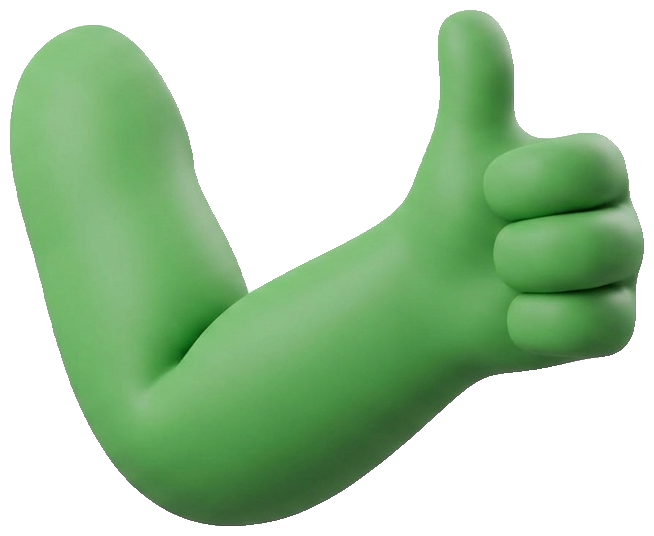
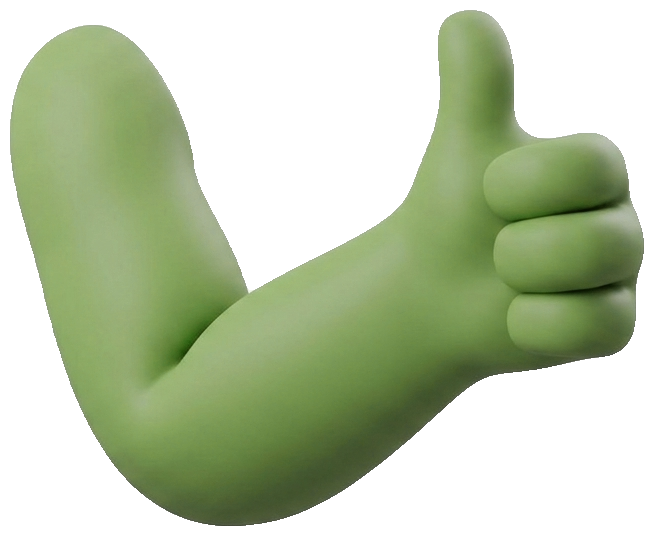
mascota: color igualado en expresiones, ojos_normal generado, scripts igualar y ojos

diff --git a/mascota/scripts/py.js b/mascota/scripts/py.js
@@ -1,10 +1,10 @@
-// Lanza mascota/scripts/recortar.py dentro del venv de mascota/.venv.
-//   npm run mascota:recortar
-//   npm run mascota:recortar -- --solo cabeza --matting
+// Lanza un script de mascota/scripts/ dentro del venv de mascota/.venv.
+//   node mascota/scripts/py.js recortar.py --solo cabeza
+//   (es lo que hacen npm run mascota:recortar, mascota:igualar y mascota:ojos)
 //
-// La primera vez crea el venv e instala rembg[cpu] + onnxruntime; las
-// siguientes solo corre el script. Sin Python en la máquina, lo dice y
-// para. "Activar el venv" es esto: llamar a su intérprete, que en
+// La primera vez crea el venv e instala rembg[cpu] + onnxruntime + numpy;
+// las siguientes solo corre el script. Sin Python en la máquina, lo dice
+// y para. "Activar el venv" es esto: llamar a su intérprete, que en
 // Windows vive en Scripts/ y en el resto en bin/.
 const { spawnSync } = require("child_process");
 const { existsSync } = require("fs");
@@ -13,8 +13,14 @@ const path = require("path");
 const MASCOTA = path.join(__dirname, "..");
 const VENV = path.join(MASCOTA, ".venv");
 const PYTHON_VENV = path.join(VENV, process.platform === "win32" ? "Scripts" : "bin", process.platform === "win32" ? "python.exe" : "python");
-const SCRIPT = path.join(__dirname, "recortar.py");
-const PAQUETES = ["rembg[cpu]", "onnxruntime", "pillow"];
+const PAQUETES = ["rembg[cpu]", "onnxruntime", "pillow", "numpy"];
+
+const [nombre, ...resto] = process.argv.slice(2);
+if (!nombre || !existsSync(path.join(__dirname, nombre))) {
+  console.error(`Uso: node mascota/scripts/py.js <script.py> [argumentos]. No existe mascota/scripts/${nombre ?? ""}`);
+  process.exit(1);
+}
+const SCRIPT = path.join(__dirname, nombre);
 
 // PYTHONUTF8: la consola de Windows arranca en cp1252 y el script imprime «✓».
 const correr = (cmd, args, opciones = {}) =>
@@ -46,4 +52,4 @@ if (!existsSync(PYTHON_VENV)) {
   if (correr(PYTHON_VENV, ["-m", "pip", "install", "--quiet", ...PAQUETES]).status !== 0) process.exit(1);
 }
 
-process.exit(correr(PYTHON_VENV, [SCRIPT, ...process.argv.slice(2)]).status ?? 1);
+process.exit(correr(PYTHON_VENV, [SCRIPT, ...resto]).status ?? 1);

diff --git a/mascota/scripts/ojos_maestro.py b/mascota/scripts/ojos_maestro.py
@@ -1,0 +1,163 @@
+"""
+Saca los ojos del render maestro de la mascota.
+
+    npm run mascota:ojos -- --vista                 → solo la vista previa
+    npm run mascota:ojos                            → escribe piezas/ojos_maestro.png
+    npm run mascota:ojos -- --caja 418 90 614 178   → otra caja (x0 y0 x1 y1, en píxeles del maestro)
+    npm run mascota:ojos -- --desvanecer 0          → corte a hueso, sin fundir el borde
+
+El maestro tiene los ojos de referencia, con sus párpados verdes. Se
+recorta esa región —sin la nariz ni la boca—, se le quita el fondo con
+rembg, se hace trim con AIRE píxeles y se guarda como
+piezas/ojos_maestro.png; si ya existía, el anterior queda como
+ojos_maestro.orig.png (solo la primera vez).
+
+NO SUSTITUYE A piezas/ojos_normal.png: esa pieza sale de su propio JPG
+generado, a resolución completa (872 px de ancho contra los ~200 del
+recorte del maestro, que es de 1024 px en total). El recorte del maestro
+es la referencia para comparar y, si hiciera falta, el respaldo.
+
+EL FONDO SE QUITA SOBRE EL MAESTRO ENTERO, no sobre el recorte: rembg
+sabe separar un personaje de un fondo blanco, pero un rectángulo de piel
+con dos ojos no es algo que reconozca, y se llevaría la piel. Con el
+personaje ya aislado, el recorte solo tiene ojos, párpados y la piel de
+en medio; las esquinas que quedaban fuera de la cabeza salen
+transparentes solas.
+
+La vista previa (rive/ojos_vista.png) enseña la caja dibujada sobre el
+maestro y el recorte ampliado, para ajustar los márgenes antes de
+escribir.
+"""
+
+from __future__ import annotations
+
+import argparse
+import sys
+from pathlib import Path
+
+import numpy as np
+from PIL import Image, ImageDraw
+from rembg import new_session, remove
+
+from recortar import AIRE, UMBRAL_ALFA
+
+RIVE = Path(__file__).resolve().parents[1] / "rive"
+MAESTRO = RIVE / "maestro.png"
+DESTINO = RIVE / "piezas" / "ojos_maestro.png"
+VISTA = RIVE / "ojos_vista.png"
+
+# Los dos ojos con sus párpados, sin las fosas nasales (empiezan en y≈182),
+# la boca ni las orejas (la derecha asoma desde x≈606). Medida sobre el
+# maestro de 1024×559.
+CAJA_POR_DEFECTO = (420, 90, 604, 178)
+
+# EL BORDE SE DESVANECE. La pieza es un rectángulo de piel del maestro
+# que va a ir encima de la cabeza de `cabeza.png`, que es otro render y
+# otro verde: con el corte a hueso se vería el parche. Con el alfa
+# cayendo a cero en los últimos píxeles del rectángulo, la piel del
+# recorte se funde con la de debajo y solo quedan los ojos. Se aplica
+# antes del trim, y no toca lo que ya era transparente.
+DESVANECIDO_POR_DEFECTO = 12
+
+
+def sin_fondo(maestro: Image.Image) -> Image.Image:
+    salida = remove(maestro.convert("RGBA"), session=new_session("u2net"), post_process_mask=True)
+    if not isinstance(salida, Image.Image):
+        raise TypeError("rembg devolvió algo que no es una imagen")
+    return salida
+
+
+def desvanecer_bordes(region: Image.Image, ancho: int) -> Image.Image:
+    """El alfa cae linealmente a cero en los `ancho` píxeles del borde del rectángulo."""
+    if ancho <= 0:
+        return region
+    alto, largo = region.height, region.width
+    y = np.arange(alto)[:, None]
+    x = np.arange(largo)[None, :]
+    # Distancia al borde más cercano, en píxeles, y de ahí un factor 0–1.
+    distancia = np.minimum(np.minimum(x + 1, largo - x), np.minimum(y + 1, alto - y))
+    factor = np.clip(distancia / (ancho + 1), 0.0, 1.0)
+    alfa = np.asarray(region.getchannel("A"), dtype=np.float64) * factor
+    salida = region.copy()
+    salida.putalpha(Image.fromarray(np.rint(alfa).astype(np.uint8), "L"))
+    return salida
+
+
+def recortar_ojos(
+    personaje: Image.Image, caja: tuple[int, int, int, int], desvanecido: int
+) -> Image.Image:
+    region = desvanecer_bordes(personaje.crop(caja), desvanecido)
+    alfa = region.getchannel("A").point(lambda a: 255 if a > UMBRAL_ALFA else 0)
+    limites = alfa.getbbox()
+    if limites is None:
+        raise ValueError("la caja no contiene nada opaco")
+    pieza = region.crop(limites)
+    lienzo = Image.new("RGBA", (pieza.width + 2 * AIRE, pieza.height + 2 * AIRE), (0, 0, 0, 0))
+    lienzo.paste(pieza, (AIRE, AIRE))
+    return lienzo
+
+
+def vista_previa(maestro: Image.Image, caja: tuple[int, int, int, int], pieza: Image.Image) -> None:
+    """El maestro con la caja marcada, y debajo el recorte a 3×."""
+    marcado = maestro.convert("RGBA")
+    dibujo = ImageDraw.Draw(marcado)
+    dibujo.rectangle(caja, outline=(224, 71, 63, 255), width=3)
+
+    escala = 3
+    ampliada = pieza.resize((pieza.width * escala, pieza.height * escala), Image.Resampling.LANCZOS)
+
+    # Fondo a cuadros bajo el recorte, para ver el alfa.
+    cuadro = 12
+    fondo = Image.new("RGBA", ampliada.size, (235, 235, 235, 255))
+    lapiz = ImageDraw.Draw(fondo)
+    for y in range(0, fondo.height, cuadro):
+        for x in range(0, fondo.width, cuadro):
+            if (x // cuadro + y // cuadro) % 2 == 0:
+                lapiz.rectangle((x, y, x + cuadro - 1, y + cuadro - 1), fill=(205, 205, 205, 255))
+    fondo.alpha_composite(ampliada)
+
+    hoja = Image.new("RGBA", (max(marcado.width, fondo.width), marcado.height + fondo.height + 20), (255, 255, 255, 255))
+    hoja.paste(marcado, (0, 0))
+    hoja.paste(fondo, (0, marcado.height + 20))
+    hoja.save(VISTA, "PNG")
+
+
+def main() -> int:
+    for flujo in (sys.stdout, sys.stderr):
+        if hasattr(flujo, "reconfigure"):
+            flujo.reconfigure(encoding="utf-8", errors="replace")
+
+    parser = argparse.ArgumentParser(description=__doc__, formatter_class=argparse.RawDescriptionHelpFormatter)
+    parser.add_argument("--caja", nargs=4, type=int, metavar=("X0", "Y0", "X1", "Y1"), default=CAJA_POR_DEFECTO)
+    parser.add_argument("--desvanecer", type=int, default=DESVANECIDO_POR_DEFECTO, metavar="PX", help="ancho del borde que se funde; 0 para corte a hueso")
+    parser.add_argument("--vista", action="store_true", help="solo la vista previa, sin escribir la pieza")
+    args = parser.parse_args()
+    caja = (args.caja[0], args.caja[1], args.caja[2], args.caja[3])
+
+    if not MAESTRO.exists():
+        print(f"✗ falta {MAESTRO.relative_to(RIVE.parent)}")
+        return 1
+
+    with Image.open(MAESTRO) as im:
+        maestro = im.convert("RGBA")
+
+    personaje = sin_fondo(maestro)
+    pieza = recortar_ojos(personaje, caja, args.desvanecer)
+    vista_previa(maestro, caja, pieza)
+    print(f"caja {caja} · desvanecido {args.desvanecer}px → pieza de {pieza.width}×{pieza.height} (con {AIRE}px de aire)")
+    print(f"vista previa en {VISTA.relative_to(RIVE.parent)}")
+
+    if args.vista:
+        return 0
+
+    original = DESTINO.with_suffix(".orig.png")
+    if DESTINO.exists() and not original.exists():
+        DESTINO.rename(original)
+        print(f"anterior guardado como {original.name}")
+    pieza.save(DESTINO, "PNG")
+    print(f"✓ escrito {DESTINO.relative_to(RIVE.parent)}")
+    return 0
+
+
+if __name__ == "__main__":
+    sys.exit(main())

diff --git a/mascota/scripts/igualar_color.py b/mascota/scripts/igualar_color.py
@@ -1,0 +1,150 @@
+"""
+Iguala el verde de las expresiones al de la pieza base que sustituyen.
+
+    npm run mascota:igualar
+    npm run mascota:igualar -- --ensayo      (mide y cuenta, no escribe)
+
+Cada expresión se generó por separado y su verde no es exactamente el de
+la pieza a la que reemplaza: al cambiar de boca en Rive, el color salta.
+Para cada par (referencia → objetivo) se toman SOLO los píxeles verdes
+de las dos —matiz entre 60° y 160°, alfa > 200— y se desplazan el
+matiz, la saturación y el valor del objetivo para que su mediana coincida
+con la de la referencia. Lo que no es verde —la lengua, el diploma, la
+cinta, el blanco del ojo— no se toca, ni tampoco el alfa.
+
+El original se guarda al lado como nombre.orig.png antes de
+sobrescribir, y si ya existe se parte de él: correr esto dos veces da lo
+mismo que correrlo una.
+"""
+
+from __future__ import annotations
+
+import argparse
+import sys
+from pathlib import Path
+
+import numpy as np
+from PIL import Image
+
+RIVE = Path(__file__).resolve().parents[1] / "rive"
+
+# referencia → objetivos, relativos a rive/
+PARES: dict[str, list[str]] = {
+    "piezas/boca_sonrisa.png": [
+        "expresiones/boca_abierta.png",
+        "expresiones/boca_o.png",
+        "expresiones/boca_triste.png",
+    ],
+    "piezas/brazo_der.png": [
+        "expresiones/brazo_pulgar.png",
+        "expresiones/brazo_diploma.png",
+    ],
+}
+
+# Pillow codifica el matiz en 0–255 (255 = 360°).
+MATIZ_MIN = round(60 / 360 * 255)
+MATIZ_MAX = round(160 / 360 * 255)
+ALFA_MIN = 200
+
+
+def hsv_y_alfa(imagen: Image.Image) -> tuple[np.ndarray, np.ndarray]:
+    """El HSV (uint8, alto×ancho×3) y el alfa (uint8) de una imagen."""
+    rgba = imagen.convert("RGBA")
+    hsv = np.asarray(rgba.convert("RGB").convert("HSV"), dtype=np.uint8)
+    alfa = np.asarray(rgba.getchannel("A"), dtype=np.uint8)
+    return hsv, alfa
+
+
+def mascara_verde(hsv: np.ndarray, alfa: np.ndarray) -> np.ndarray:
+    matiz = hsv[..., 0]
+    return (matiz >= MATIZ_MIN) & (matiz <= MATIZ_MAX) & (alfa > ALFA_MIN)
+
+
+def medianas(hsv: np.ndarray, mascara: np.ndarray) -> np.ndarray:
+    """Mediana de H, S y V sobre la máscara, como float."""
+    return np.median(hsv[mascara].astype(np.float64), axis=0)
+
+
+def igualar(referencia: Image.Image, objetivo: Image.Image) -> tuple[Image.Image, np.ndarray, np.ndarray, int]:
+    """El objetivo con su verde desplazado al de la referencia."""
+    hsv_ref, alfa_ref = hsv_y_alfa(referencia)
+    hsv_obj, alfa_obj = hsv_y_alfa(objetivo)
+
+    verde_ref = mascara_verde(hsv_ref, alfa_ref)
+    verde_obj = mascara_verde(hsv_obj, alfa_obj)
+    if verde_ref.sum() == 0 or verde_obj.sum() == 0:
+        raise ValueError("una de las dos imágenes no tiene píxeles verdes que medir")
+
+    med_ref = medianas(hsv_ref, verde_ref)
+    med_obj = medianas(hsv_obj, verde_obj)
+    desplazamiento = med_ref - med_obj
+
+    ajustado = hsv_obj.astype(np.float64)
+    # El matiz es circular: se suma y se envuelve. Saturación y valor se
+    # suman y se recortan al rango.
+    ajustado[verde_obj, 0] = np.mod(ajustado[verde_obj, 0] + desplazamiento[0], 256)
+    ajustado[verde_obj, 1] = np.clip(ajustado[verde_obj, 1] + desplazamiento[1], 0, 255)
+    ajustado[verde_obj, 2] = np.clip(ajustado[verde_obj, 2] + desplazamiento[2], 0, 255)
+
+    rgb = Image.fromarray(np.rint(ajustado).astype(np.uint8), "HSV").convert("RGB")
+    salida = rgb.convert("RGBA")
+    salida.putalpha(Image.fromarray(alfa_obj, "L"))
+    return salida, med_ref, med_obj, int(verde_obj.sum())
+
+
+def en_grados(mediana: np.ndarray) -> str:
+    h, s, v = mediana
+    return f"H {h / 255 * 360:5.1f}°  S {s / 255 * 100:4.1f}%  V {v / 255 * 100:4.1f}%"
+
+
+def main() -> int:
+    for flujo in (sys.stdout, sys.stderr):
+        if hasattr(flujo, "reconfigure"):
+            flujo.reconfigure(encoding="utf-8", errors="replace")
+
+    parser = argparse.ArgumentParser(description=__doc__, formatter_class=argparse.RawDescriptionHelpFormatter)
+    parser.add_argument("--ensayo", action="store_true", help="medir y contar sin escribir nada")
+    args = parser.parse_args()
+
+    if args.ensayo:
+        print("ENSAYO: no se escribe nada.\n")
+
+    for ref_rel, objetivos in PARES.items():
+        ruta_ref = RIVE / ref_rel
+        if not ruta_ref.exists():
+            print(f"✗ falta la referencia {ref_rel}")
+            return 1
+        with Image.open(ruta_ref) as im:
+            referencia = im.convert("RGBA")
+
+        print(f"{ref_rel}")
+        for obj_rel in objetivos:
+            ruta = RIVE / obj_rel
+            original = ruta.with_suffix(".orig.png")
+            if not ruta.exists():
+                print(f"  ✗ falta {obj_rel}")
+                continue
+
+            # Se parte siempre del original: así la segunda corrida no
+            # desplaza lo ya desplazado.
+            fuente = original if original.exists() else ruta
+            with Image.open(fuente) as im:
+                objetivo = im.convert("RGBA")
+
+            ajustado, med_ref, med_obj, n = igualar(referencia, objetivo)
+            print(f"  → {obj_rel}  ({n} px verdes)")
+            print(f"      referencia  {en_grados(med_ref)}")
+            print(f"      objetivo    {en_grados(med_obj)}")
+
+            if args.ensayo:
+                continue
+            if not original.exists():
+                objetivo.save(original, "PNG")
+            ajustado.save(ruta, "PNG")
+            print(f"      ✓ escrito (original en {original.name})")
+
+    return 0
+
+
+if __name__ == "__main__":
+    sys.exit(main())

diff --git a/mascota/scripts/recortar.py b/mascota/scripts/recortar.py
@@ -4,6 +4,7 @@ Quita el fondo de las piezas de la mascota y las deja listas para Rive.
     npm run mascota:recortar            → todas las carpetas
     npm run mascota:recortar -- --solo cabeza brazo_izq
     npm run mascota:recortar -- --matting   (bordes más finos, más lento)
+    npm run mascota:recortar -- --solo-contacto   (solo rehacer contacto.png)
 
 Para cada JPG de rive/piezas/ y rive/expresiones/ guarda un PNG con canal
 alfa, mismo nombre y misma carpeta: quita el fondo con rembg (modelo
@@ -12,7 +13,7 @@ alrededor. Los JPG no se tocan. Al final rehace rive/contacto.png: todos
 los PNG sobre un fondo a cuadros, con su nombre debajo.
 
 Corre dentro del venv de mascota/.venv; lo crea y lo llena el lanzador
-(mascota/scripts/recortar.js), que es lo que llama el script npm.
+(mascota/scripts/py.js), que es lo que llama el script npm.
 """
 
 from __future__ import annotations
@@ -136,7 +137,14 @@ def main() -> int:
     parser.add_argument("--solo", nargs="*", default=None, help="nombres (sin extensión) a recortar; por defecto, todos")
     parser.add_argument("--matting", action="store_true", help="alpha matting: bordes más finos, más lento")
     parser.add_argument("--sin-contacto", action="store_true", help="no rehacer contacto.png")
+    parser.add_argument("--solo-contacto", action="store_true", help="solo rehacer contacto.png con los PNG que ya hay")
     args = parser.parse_args()
+
+    if args.solo_contacto:
+        pngs = [png for carpeta in CARPETAS for png in sorted((RIVE / carpeta).glob("*.png")) if not png.name.endswith(".orig.png")]
+        hoja_de_contacto(pngs, RIVE / "contacto.png")
+        print(f"contacto.png con {len(pngs)} piezas")
+        return 0
 
     jpgs = [jpg for carpeta in CARPETAS for jpg in sorted((RIVE / carpeta).glob("*.jpg"))]
     if args.solo is not None:
@@ -155,7 +163,8 @@ def main() -> int:
         print(f"  ✓ {jpg.parent.name}/{destino.name}  {png.width}×{png.height}")
 
     if not args.sin_contacto:
-        pngs = [png for carpeta in CARPETAS for png in sorted((RIVE / carpeta).glob("*.png"))]
+        # Sin los .orig.png: son copias de seguridad, no piezas.
+        pngs = [png for carpeta in CARPETAS for png in sorted((RIVE / carpeta).glob("*.png")) if not png.name.endswith(".orig.png")]
         hoja_de_contacto(pngs, RIVE / "contacto.png")
         print(f"\ncontacto.png con {len(pngs)} piezas")
 
